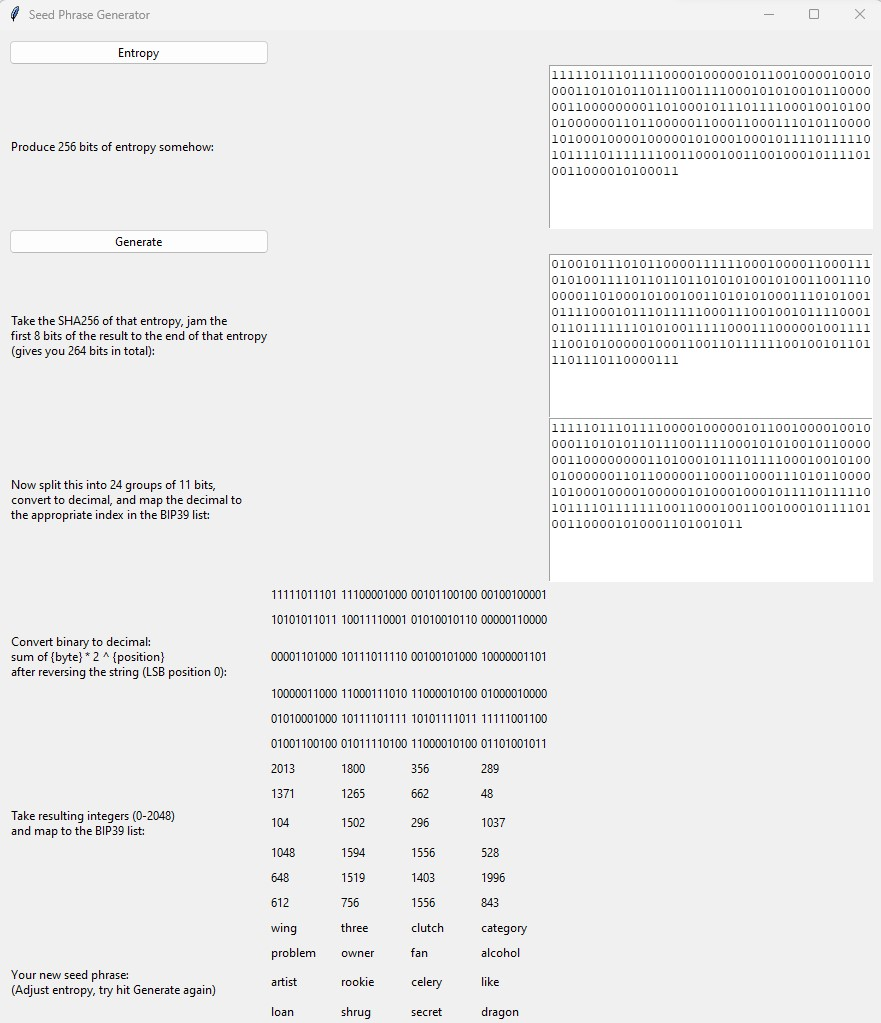
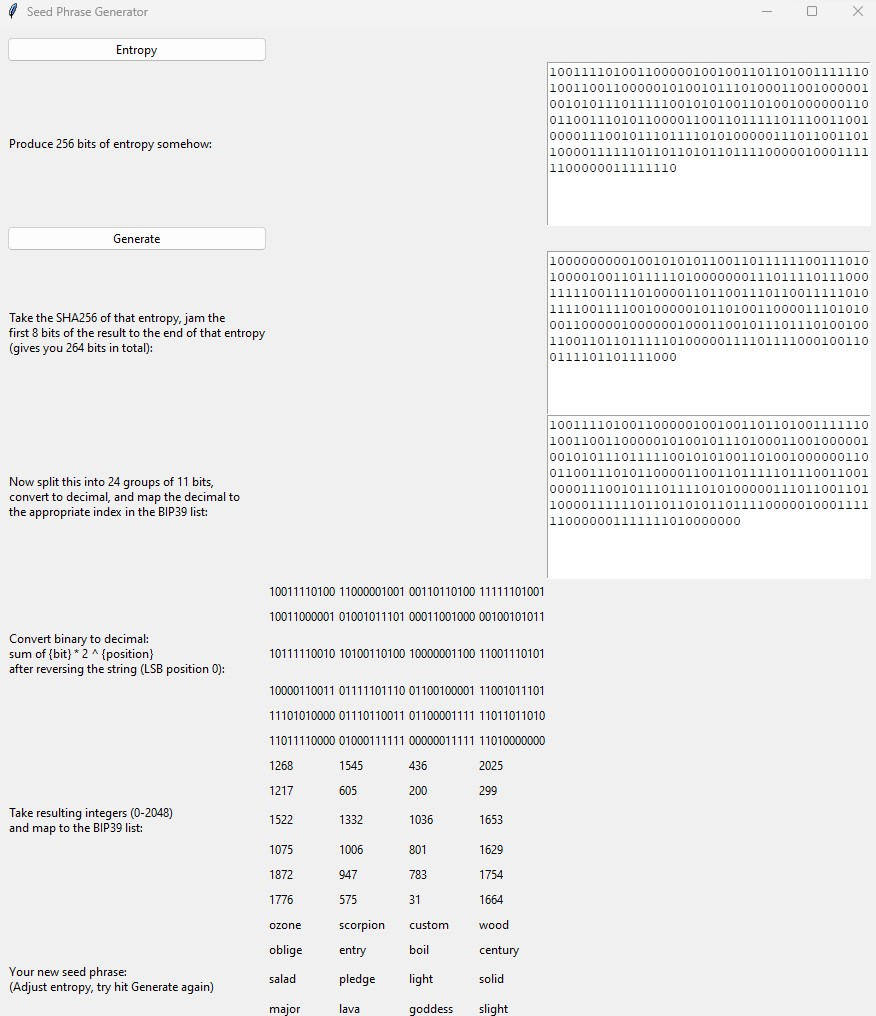
Fixed byte->bit typo

diff --git a/seed-generator.py b/seed-generator.py
@@ -118,7 +118,7 @@ appended_result_label.grid(row=4, column=0, sticky=(tk.W))
 appended_result_text = tk.Text(frame, width=40, height=10)
 appended_result_text.grid(row=4, column=6, sticky=(tk.W, tk.E, tk.N, tk.S))
 
-howto_label = ttk.Label(frame, text="Convert binary to decimal:\nsum of {byte} * 2 ^ {position}\nafter reversing the string (LSB position 0):")
+howto_label = ttk.Label(frame, text="Convert binary to decimal:\nsum of {bit} * 2 ^ {position}\nafter reversing the string (LSB position 0):")
 howto_label.grid(row=7, column=0, sticky=(tk.W))
 
 # Create a 6x4 grid of labels to display binary chunks
